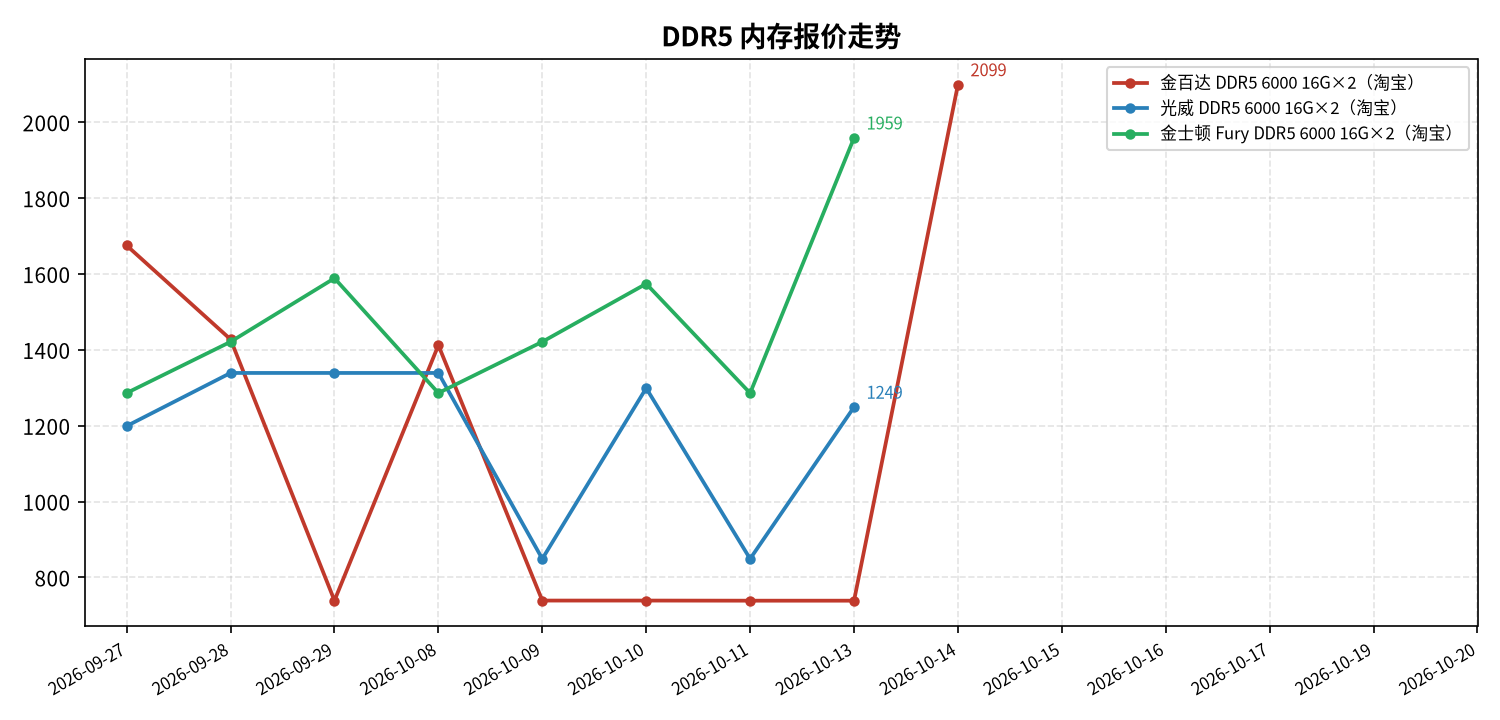
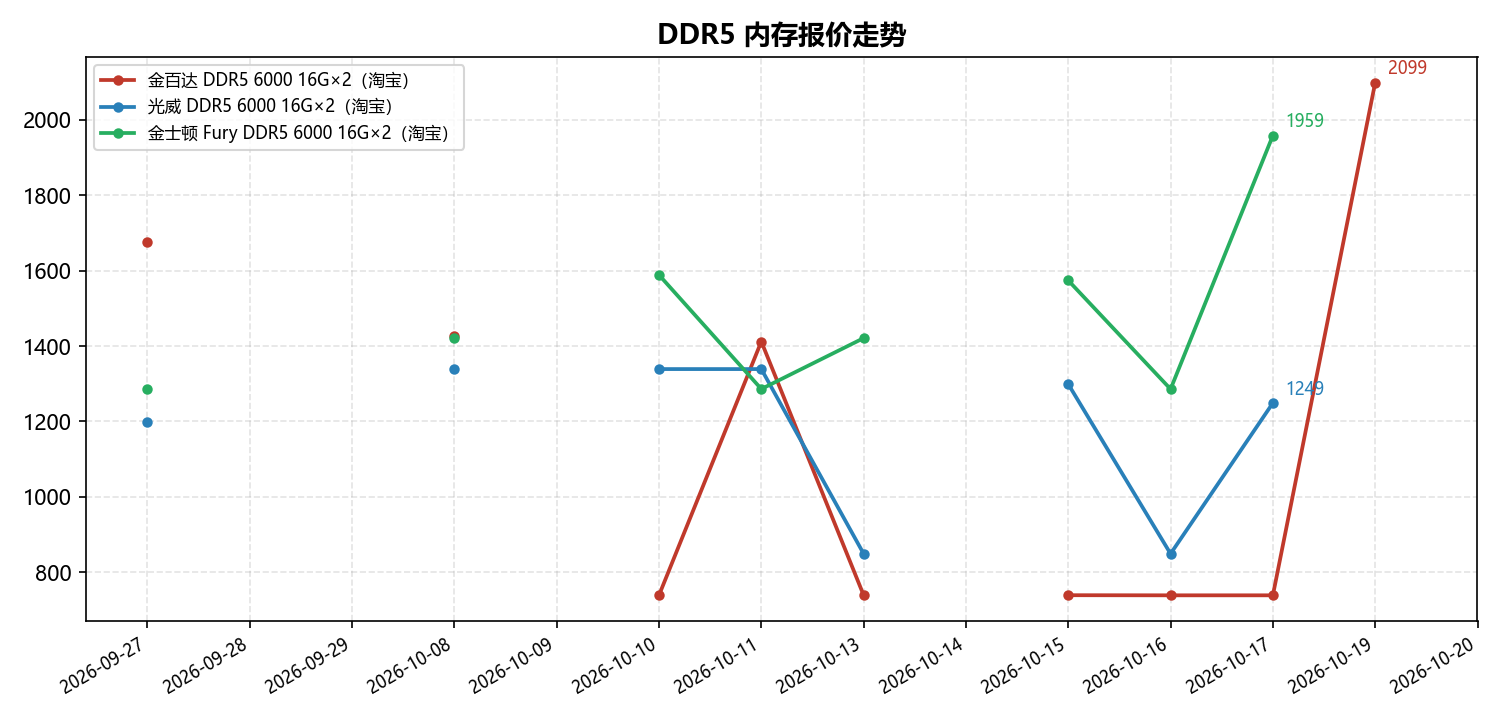
修复图表日期轴错乱（字符串分类轴槽位乱序改为日期序号+缺口断线）；计划任务路径迁移至 D:\AIwork

diff --git a/output/reports/hw_report_2026-11-07.html b/output/reports/hw_report_2026-11-07.html
@@ -21,6 +21,6 @@ img{max-width:100%;border:1px solid #ddd;border-radius:6px;margin-top:8px;}
 —— 数据来自京东、淘宝实时搜索，共积累 14 天。</p>
 <div class="note">京东登录态已过期：请运行 python scripts/login.py jd 重新扫码。；淘宝登录态已过期：请运行 python scripts/login.py taobao 重新扫码。；今日京东未命中的商品：Mac mini M4 16G+512G</div>
 <h2>整机报价走势（迷你主机 / 笔记本 / 台式机）</h2><table><tr><th>商品</th><th>平台</th><th>最新价</th><th>日涨跌</th><th>相对首日</th><th>链接</th></tr><tr><td>Mac mini M4 16G+512G<br><span class="muted">Apple M4 · 迷你主机</span></td><td>淘宝</td><td>¥4899</td><td><span class="down">▼1099</span></td><td><span class="down">0.0%</span></td><td><a href="https://item.taobao.com/item.htm?id=1068402520001">看</a></td></tr><tr><td>零刻 SER9 迷你主机<br><span class="muted">AMD 锐龙 · 迷你主机</span></td><td>淘宝</td><td>¥4808</td><td>持平</td><td><span class="up">+50.3%</span></td><td><a href="https://item.taobao.com/item.htm?id=969071783195">看</a></td></tr><tr><td>极摩客 K8 Plus 迷你主机<br><span class="muted">AMD 锐龙 · 迷你主机</span></td><td>淘宝</td><td>¥2298</td><td><span class="up">▲200</span></td><td><span class="up">+9.5%</span></td><td><a href="https://item.taobao.com/item.htm?id=1047148735268">看</a></td></tr></table><img src="cid:chart_machines" alt="整机报价走势（迷你主机 / 笔记本 / 台式机）"><h2>DDR5 内存报价走势</h2><table><tr><th>商品</th><th>平台</th><th>最新价</th><th>日涨跌</th><th>相对首日</th><th>链接</th></tr></table><img src="cid:chart_ddr5" alt="DDR5 内存报价走势"><h2>iQOO Neo 系列手机报价走势</h2><table><tr><th>商品</th><th>平台</th><th>最新价</th><th>日涨跌</th><th>相对首日</th><th>链接</th></tr></table><img src="cid:chart_neo" alt="iQOO Neo 系列手机报价走势">
-<div class="footer">由硬件日报机器人自动生成于 2026-11-07 13:15
+<div class="footer">由硬件日报机器人自动生成于 2026-11-07 23:25
 · GitHub 归档与全部走势图见仓库 README</div>
 </body></html>

diff --git a/scripts/report.py b/scripts/report.py
@@ -50,20 +50,23 @@ def _placeholder(plt, path: Path, text: str) -> None:
 
 
 def _plot_lines(ax, series: dict[str, dict[str, float]], dates: list[str]) -> None:
-    """series: model -> {date: price}"""
+    """series: model -> {date: price}
+
+    x 用日期在 dates 中的序号（不能用日期字符串——matplotlib 字符串分类轴按
+    各系列"首次出现"分配槽位，系列间日期集合不同时槽位会错乱，画出来是乱麻）。
+    缺数据的日期填 None，matplotlib 自动断线，不再跨缺口直连。
+    """
     colors = ["#c0392b", "#2980b9", "#27ae60", "#8e44ad", "#e67e22",
               "#16a085", "#d35400", "#2c3e50", "#7f8c8d", "#f39c12"]
+    xs = list(range(len(dates)))
     for i, (model, points) in enumerate(series.items()):
-        xs, ys = [], []
-        for d in dates:
-            if d in points:
-                xs.append(d)
-                ys.append(points[d])
-        if not xs:
+        ys = [points.get(d) for d in dates]
+        if all(y is None for y in ys):
             continue
         c = colors[i % len(colors)]
         ax.plot(xs, ys, marker="o", markersize=4, linewidth=1.8, label=model, color=c)
-        ax.annotate(f"{ys[-1]:.0f}", (xs[-1], ys[-1]),
+        last = max(j for j, y in enumerate(ys) if y is not None)
+        ax.annotate(f"{ys[last]:.0f}", (xs[last], ys[last]),
                     textcoords="offset points", xytext=(6, 4),
                     fontsize=8, color=c)
     ax.grid(True, linestyle="--", alpha=0.35)
